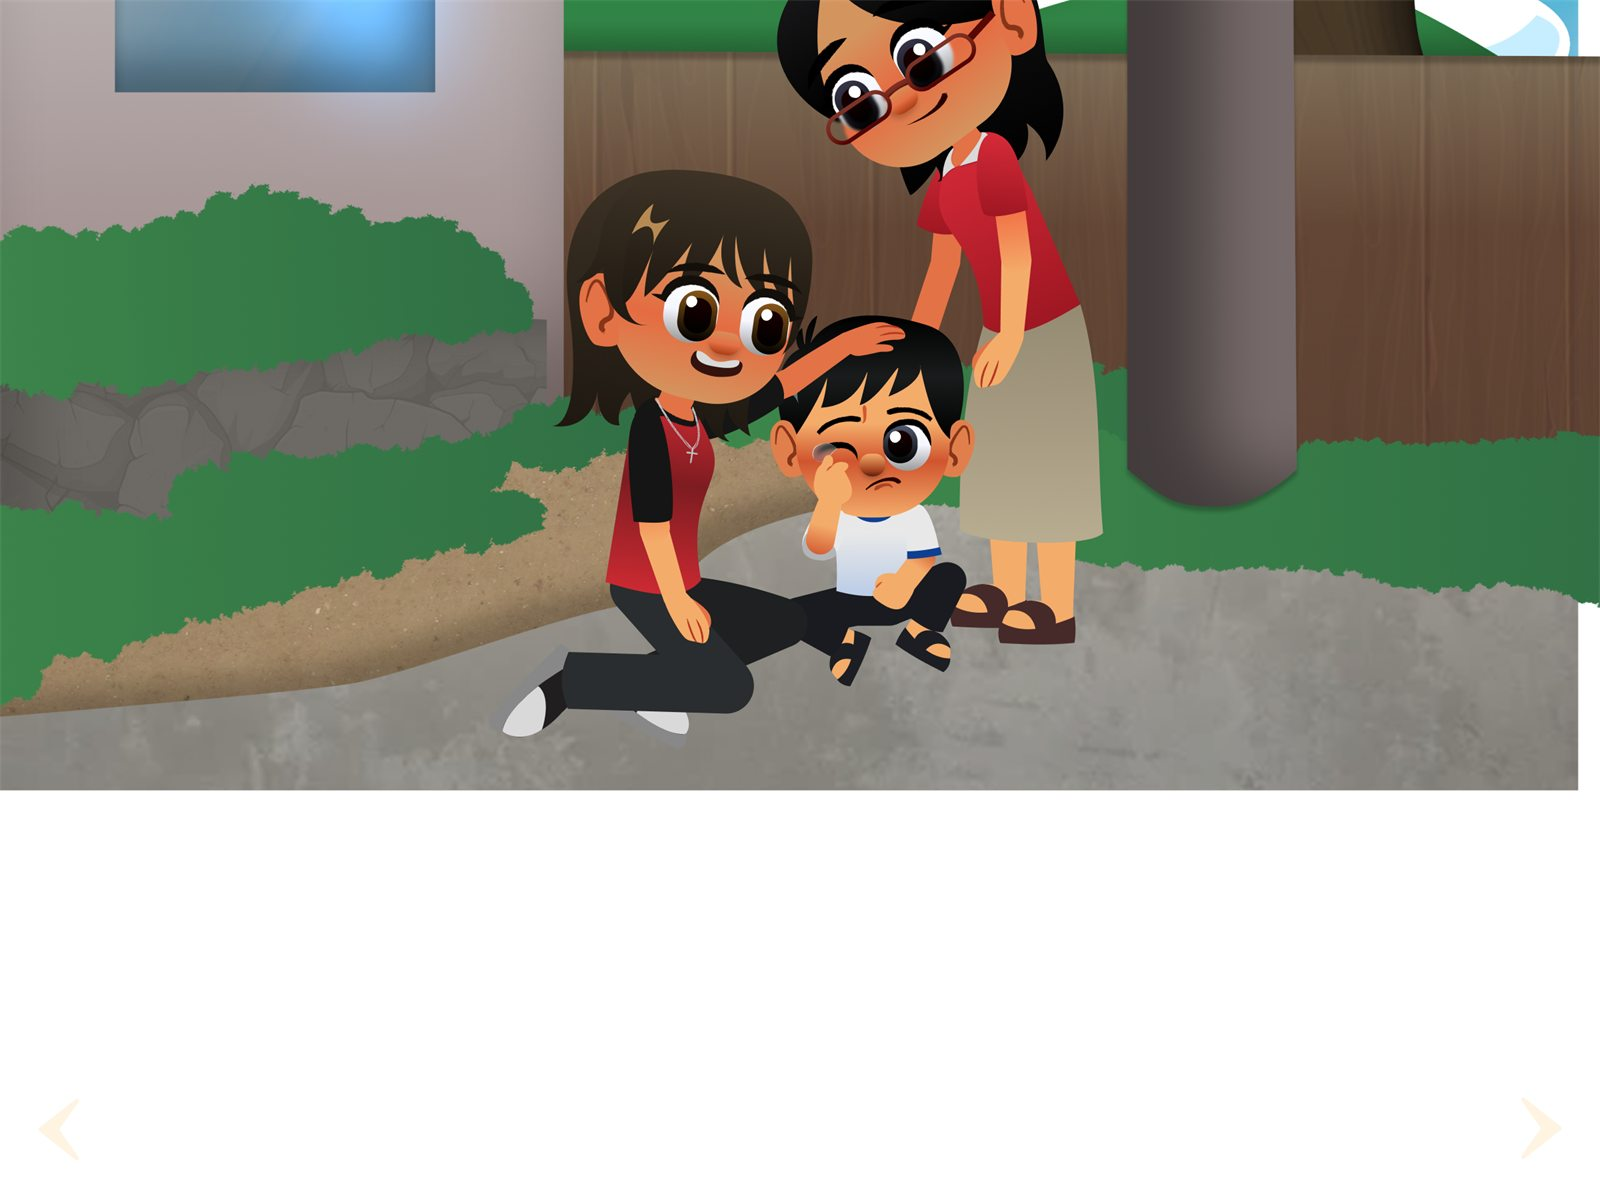
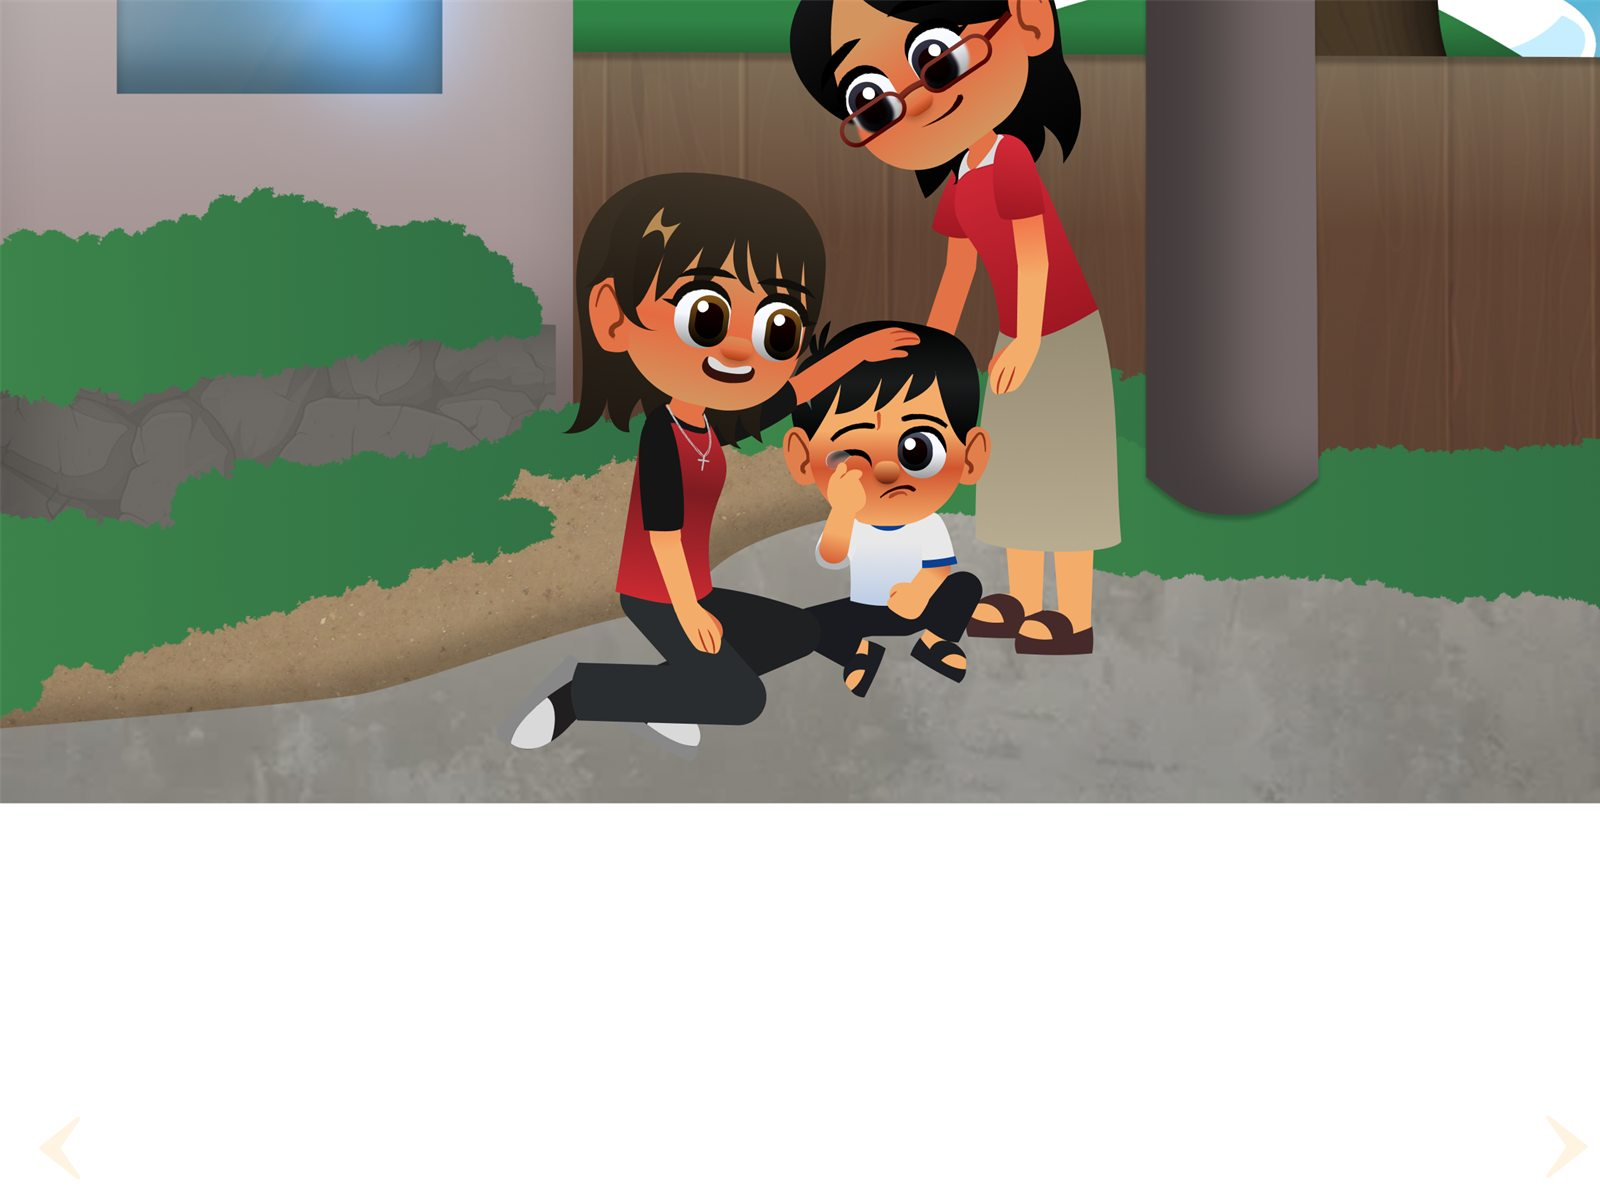
Give the dialogue box the bottom 37.5% and centre its text

diff --git a/dashboard/lakbay.css b/dashboard/lakbay.css
@@ -460,31 +460,31 @@
 .lk-story { background: #FFFBF4; overflow: hidden; }
 .st-art, .st-art > img { position: absolute; left: 0; top: 0; width: 1200px; height: 900px; max-width: none; }
 .st-art { transform-origin: 0 0; }
-/* The box is 1404 Ã— 533 at (-102, 478) in the frame, so it follows the window both ways */
-.st-box { position: absolute; left: -8.5%; top: 53.11%; width: 117%; height: 59.22%; max-width: none; pointer-events: none; }
+/* The box takes the bottom 37.5% of the window. Its image is solid for the top 79% of its height, so that part fills it */
+.st-box { position: absolute; left: -8.5%; top: 62.5%; width: 117%; height: 47.35%; max-width: none; pointer-events: none; }
 .lk-story.is-whole .st-box { display: none; }
 #st-stage { pointer-events: none; }
 #st-stage a { pointer-events: auto; }
 .st-spot { position: absolute; left: calc(var(--x) * 1px); top: calc(var(--y) * 1px); width: calc(var(--w) * 1px); height: calc(var(--h) * 1px); cursor: pointer; }
 .st-spot:focus-visible { outline: 5px solid #fff; outline-offset: -9px; box-shadow: inset 0 0 0 9px var(--navy); }
-.st-text { position: absolute; left: 102px; top: 544px; width: 996px; color: #001343; text-align: center; font-size: 47px; line-height: 53px; }
+.st-text { position: absolute; left: 102px; top: var(--st-mid, 700px); width: 996px; transform: translateY(-50%); color: var(--navy); text-align: center; font-size: 47px; line-height: 53px; }
 .st-text:focus, .st-q:focus, #st-stage h1:focus { outline: none; }
 .st-text em { font-weight: 700; font-style: italic; }
 .st-text strong { font-weight: 700; }
 .st-tab { position: absolute; rotate: -11.05deg; border: 3.2px solid #fff; border-radius: 6.4px; background: linear-gradient(270deg, #001343, #002581 48%, #001343 93%); }
 .st-plate { position: absolute; left: 24px; top: 100.2px; width: 1153px; height: 261px; display: flex; align-items: center; justify-content: center; padding: 39px 33px; background: url(assets/lakbay/kuwento/plate.svg) 0 0 / 100% 100% no-repeat; }
-.st-plate h1 { padding-top: 30px; color: #001343; text-align: center; font-family: 'Fredoka One', ui-rounded, 'Nunito', system-ui, sans-serif; font-weight: 400; font-size: 67.14px; line-height: 64px; }
+.st-plate h1 { padding-top: 30px; color: var(--navy); text-align: center; font-family: 'Fredoka One', ui-rounded, 'Nunito', system-ui, sans-serif; font-weight: 400; font-size: 67.14px; line-height: 64px; }
 .st-tag { position: absolute; left: 234px; top: 63px; width: 733.3px; height: 92.7px; }
 .st-tag img { position: absolute; max-width: none; }
 .st-tag-bg { left: -1.41%; top: 0; width: 102.82%; height: 122.26%; }
 .st-tag-dash { left: 0; top: 0; width: 100%; height: 104.45%; }
-.st-tag span { position: absolute; inset: 0 0 8px; display: flex; align-items: center; justify-content: center; color: #FFFBF4; font-family: 'Fredoka One', ui-rounded, 'Nunito', system-ui, sans-serif; font-size: 50.36px; }
+.st-tag span { position: absolute; inset: 0 0 8px; display: flex; align-items: center; justify-content: center; color: var(--cream); font-family: 'Fredoka One', ui-rounded, 'Nunito', system-ui, sans-serif; font-size: 50.36px; }
 .st-go { position: absolute; left: 492px; top: 376px; width: 218px; height: 65px; }
 .st-go .pill { width: 100%; height: 100%; }
 .st-go .pill-label { font-size: 32px; }
 /* The yellow band runs the whole window, past the picture */
 .st-band::after { content: ""; position: absolute; left: -3000px; top: 635px; width: 7200px; height: 3000px; background: repeating-linear-gradient(90deg, #fff 0 24px, transparent 24px 38px) 0 0 / 100% 3px no-repeat, linear-gradient(90deg, #FFAE00 3000px, #FBCB39 3600px, #FFAE00 4200px); box-shadow: inset 6px 13px 10px rgba(0, 0, 0, .12); }
-.st-q { position: absolute; left: -20px; top: 683px; width: 1240px; color: #001343; text-align: center; font-family: 'Fredoka One', ui-rounded, 'Nunito', system-ui, sans-serif; font-weight: 400; font-size: 85px; line-height: 85px; -webkit-text-stroke: 10px #fff; paint-order: stroke fill; }
+.st-q { position: absolute; left: -20px; top: 683px; width: 1240px; color: var(--navy); text-align: center; font-family: 'Fredoka One', ui-rounded, 'Nunito', system-ui, sans-serif; font-weight: 400; font-size: 85px; line-height: 85px; -webkit-text-stroke: 10px #fff; paint-order: stroke fill; }
 
 @media (max-width: 700px), (max-width: 900px) and (max-height: 500px) {
   .lk-story { overflow-y: auto; }
@@ -495,7 +495,7 @@
   .lk-story.is-whole .st-art { aspect-ratio: 4 / 3; }
   .st-box { display: none; }
   .st-spot { left: calc(var(--x) / 12 * 1%); top: 0; width: calc(var(--w) / 12 * 1%); height: 100%; }
-  .st-text { position: static; width: auto; padding: 24px 20px; font-size: 24px; line-height: 32px; }
+  .st-text { position: static; width: auto; transform: none; padding: 24px 20px; font-size: 24px; line-height: 32px; }
   .st-band, .st-tab { display: none; }
   .st-q br { display: none; }
   .st-q { position: static; width: auto; margin: 0; padding: 20px 16px; background: linear-gradient(90deg, #FFAE00 2%, #FBCB39 49%, #FFAE00); font-size: 32px; line-height: 36px; text-wrap: balance; -webkit-text-stroke: 5px #fff; }

diff --git a/dashboard/dashboard.js b/dashboard/dashboard.js
@@ -790,13 +790,16 @@
     const W = scene.clientWidth;
     const H = scene.clientHeight;
     if (lkScene === 'lk-story') {
-      // The illustration covers the window. Its bottom is white, so the box always starts above that: at
-      // the frame's height (478 of 900) on any window. The words scale with the screen and start on the box.
-      const sA = Math.max(W / 1200, H / 900);
+      // The illustration covers the window and the box takes the bottom 37.5%. Each picture ends in white
+      // (abState.white, frame units), so a picture that ends high is enlarged until the box hides that.
+      const sA = Math.max(W / 1200, H / 900, H * AB_BOX / (abState.white - abState.oy));
       const up = Math.min(abState.oy, 900 - H / sA);
       $('st-art').style.transform = `translate(${(W - 1200 * sA) / 2}px, ${-up * sA}px) scale(${sA})`;
       const sS = Math.min(W / 1200, H / 900);
-      stages[0].style.transform = `translate(${(W - 1200 * sS) / 2}px, ${H * 478 / 900 - 478 * sS}px) scale(${sS})`;
+      const y0 = H * 478 / 900 - 478 * sS;
+      stages[0].style.transform = `translate(${(W - 1200 * sS) / 2}px, ${y0}px) scale(${sS})`;
+      // The words sit in the middle of the box, below its grey rim
+      stages[0].style.setProperty('--st-mid', `${(H * AB_MID - y0) / sS}px`);
       return;
     }
     if (lkScene === 'lk-bb') {
@@ -1096,21 +1099,21 @@
       pamagat: 'ANG PAMILYANG PUNONG-PUNO NG PAGMAMAHAL',
       pahina: [
         { f: 'f0', oy: 120 },
-        { f: 'f1', t: 'Habang naglalakad sa aming barangay, nakita ko ang kaibigan kong si Popoy.' },
+        { f: 'f1', w: 540, t: 'Habang naglalakad sa aming barangay, nakita ko ang kaibigan kong si Popoy.' },
         { f: 'f2', t: '<em>“Popoy! Papasok ka na ba sa paaralan? Sabay na tayo!”</em> tawag ko.<br><em>“Hindi. Aalis kami ng mga mama ko,”</em> sagot niya.' },
         { f: 'f3', t: '<em>“Mga mama? Hindi ba mama at papa ang bumubuo ng pamilya?”</em> pagtataka ko.', spot: [416, 0, 365, 478, 'Si Biboy na nagtataka'], tanong: 'Anong emosyon kaya ito?<br>Ipakita mo rin!' },
         { f: 'f4', t: '<em>“Mga mama? Hindi ba mama at papa ang bumubuo ng pamilya?”</em> pagtataka ko.' },
         { f: 'f5', t: 'Umiling si Popoy.<br><em>“Dalawa ang mama ko.”</em>' },
         { f: 'f6', t: '<em>“Dalawa ang mama ko at mahal na mahal nila ako.”</em>' },
-        { f: 'f7', t: '<em>“Kapag nalulungkot ako, niyayakap nila ako.”</em>' },
+        { f: 'f7', w: 530, t: '<em>“Kapag nalulungkot ako, niyayakap nila ako.”</em>' },
         { f: 'f8', t: '<em>“Kapag nalulungkot ako, niyayakap nila ako.”</em>' },
         { f: 'f9', t: '<em>“Kapag may sakit ako, inaalagaan nila ako.”</em>' },
         { f: 'f10', t: '<em>“Kapag nahihirapan ako, tinutulungan nila ako.”</em>' },
         { f: 'f11', oy: 50, t: '<em>“Kapag nahihirapan ako, tinutulungan nila ako.”</em>', spot: [265, 0, 730, 478, 'Si Popoy at ang kanyang dalawang mama'], tanong: 'Mahal ba ng dalawang<br>mama si Popoy?' },
         { f: 'f13', t: 'Lumabas ang dalawang mama niya at niyakap siya.' },
-        { f: 'f14', t: 'Lumabas ang dalawang mama niya at niyakap siya.' },
-        { f: 'f15', oy: 40, t: 'Lumabas ang dalawang mama niya at niyakap siya.' },
-        { f: 'f16', t: 'Lumabas ang dalawang mama niya at niyakap siya.' },
+        { f: 'f14', w: 525, t: 'Lumabas ang dalawang mama niya at niyakap siya.' },
+        { f: 'f15', oy: 40, w: 528, t: 'Lumabas ang dalawang mama niya at niyakap siya.' },
+        { f: 'f16', w: 528, t: 'Lumabas ang dalawang mama niya at niyakap siya.' },
         { f: 'f17', t: 'Napangiti ako.<br>Doon ko naunawaan.' },
         { f: 'f18', oy: 70, t: 'Magkaiba man ang pamilya namin, pareho naman kaming minamahal.' },
         { f: 'f19', t: '<strong>Hindi kailangang magkapareho ang mga pamilya, basta’t puno ng pagmamahal.</strong>', spot: [416, 0, 365, 478, 'Si Biboy na nag-iisip'], tanong: 'Ano ang natutunan ni Biboy<br>tungkol sa pamilya?' },
@@ -1118,7 +1121,9 @@
     },
   };
   const abUrl = (id, screen) => `#/lakbay-aralin/kuwento/${id}/ang-babasahin${screen ? `/${screen}` : ''}`;
-  const abState = { esc: null, oy: 0 };
+  const AB_BOX = 0.625; // the box starts here, as a share of the window; see .st-box
+  const AB_MID = 0.82; // the middle of the box below its rim
+  const abState = { esc: null, oy: 0, white: 900 };
   const abTabs = (a, b) => `<i class="st-tab" style="left:${a[0]}px;top:${a[1]}px;width:${a[2]}px;height:${a[3]}px"></i><i class="st-tab" style="left:${b[0]}px;top:${b[1]}px;width:${b[2]}px;height:${b[3]}px"></i>`;
 
   function abPage(id, p, tanong) {
@@ -1165,6 +1170,7 @@
     $('lk-story').classList.toggle('is-q', tanong);
     $('lk-story').classList.toggle('is-whole', tanong || name === 'f0');
     abState.oy = tanong ? 0 : (page.oy || 0);
+    abState.white = tanong ? 900 : (page.w || 900);
     if (after) new Image().src = `${AB_ART}${after.f}.jpg`; // the next page is usually a tap away
     bbState.screen = screen;
     lkShow('lk-story');
